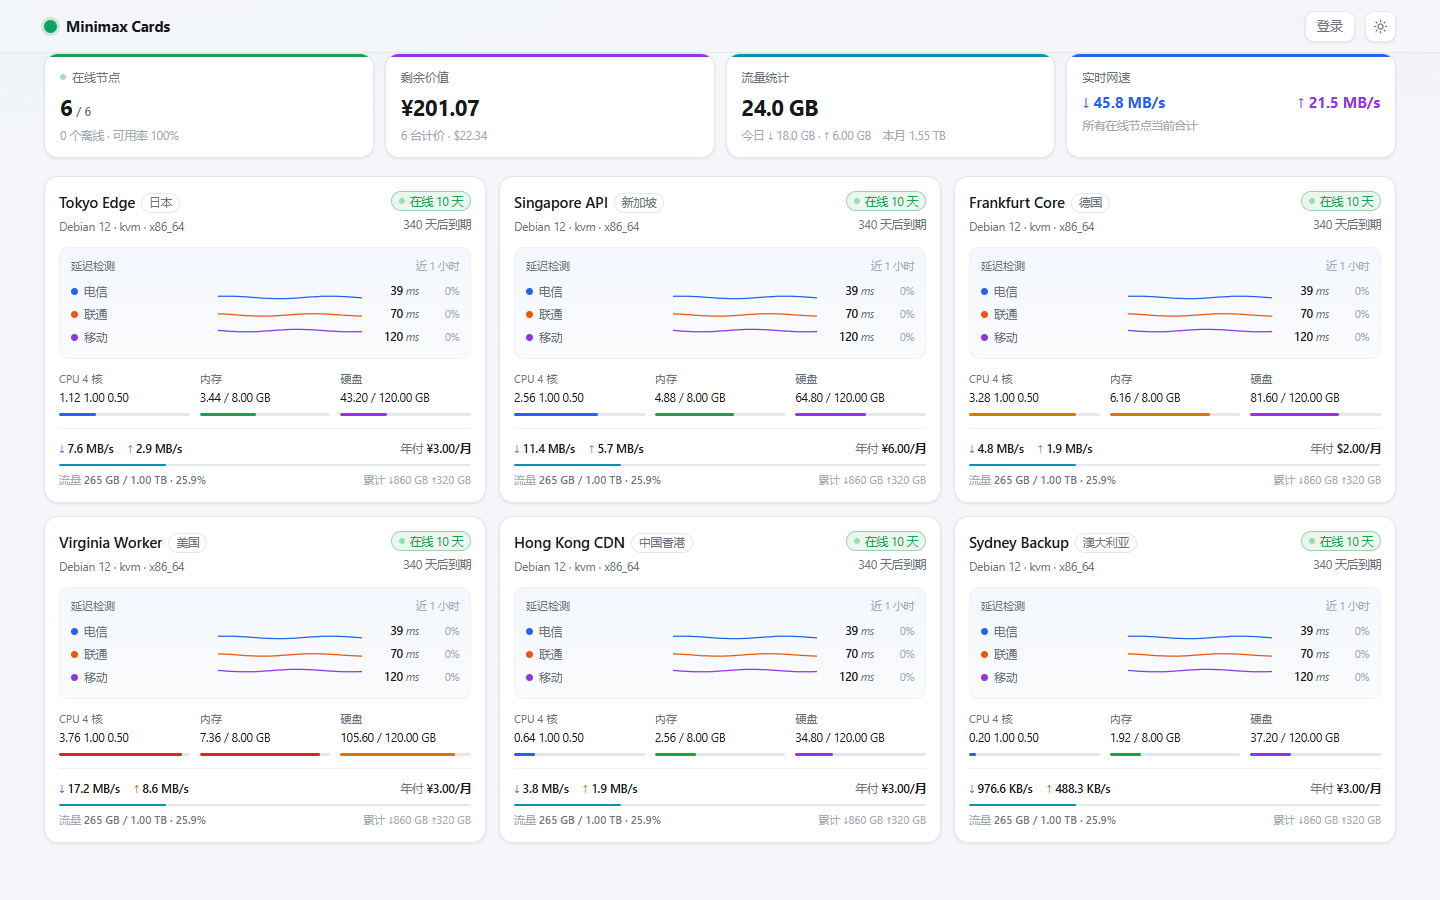
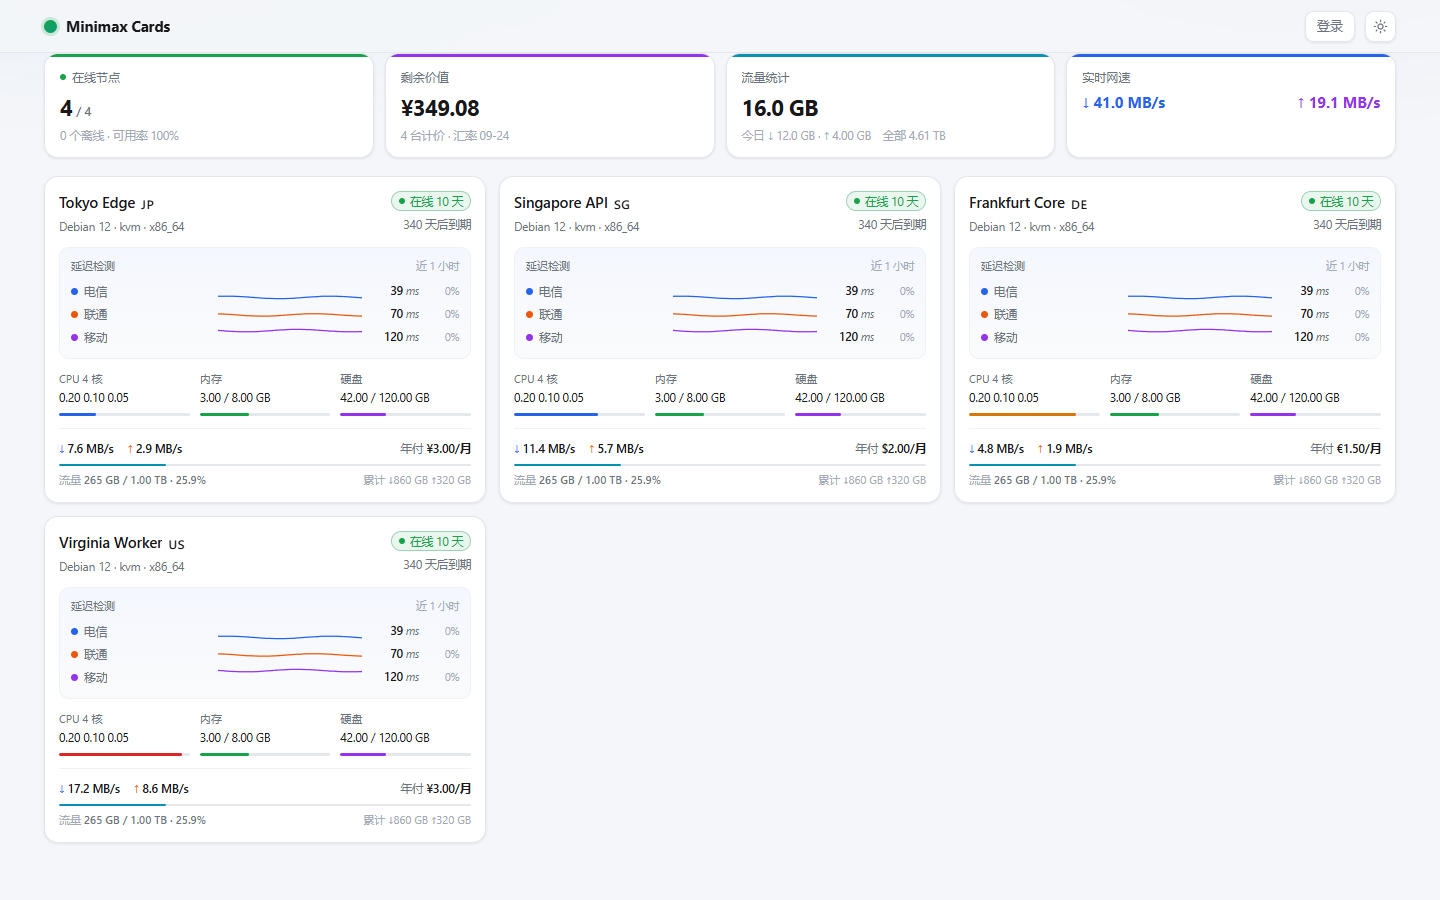
Add CNY value conversion and flag labels

diff --git a/dist/index.html b/dist/index.html
@@ -113,6 +113,7 @@ main{padding:18px 0 64px}
 .sub{margin-top:4px;font-size:11.5px;color:var(--muted);white-space:nowrap;overflow:hidden;text-overflow:ellipsis}
 
 .chip{display:inline-flex;align-items:center;gap:5px;height:20px;padding:0 7px;border:1px solid var(--line);border-radius:999px;font-size:11.5px;color:var(--muted);white-space:nowrap;font-variant-numeric:var(--tnum)}
+.flag{font-size:17px;line-height:1;flex-shrink:0;filter:saturate(.92)}
 /* 在线时给状态徽标上一层淡绿底，卡片头部因此有了色彩落点 */
 .chip.live{color:var(--ok);border-color:color-mix(in srgb,var(--ok) 34%,var(--line));background:color-mix(in srgb,var(--ok) 9%,transparent)}
 .chip.warn{border-color:color-mix(in srgb,var(--warn) 34%,var(--line));background:color-mix(in srgb,var(--warn) 9%,transparent)}
@@ -365,6 +366,11 @@ function countryName(code){
   var k = String(code).toUpperCase();
   return COUNTRY[k] || k;
 }
+function countryFlag(code){
+  var k = String(code || "").toUpperCase();
+  if (!/^[A-Z]{2}$/.test(k)) return k;
+  return String.fromCodePoint(127397 + k.charCodeAt(0), 127397 + k.charCodeAt(1));
+}
 var FOREVER = "\u221E";
 var HHMM = new Intl.DateTimeFormat("zh-CN", { hour:"2-digit", minute:"2-digit" });
 var MDHHMM = new Intl.DateTimeFormat("zh-CN", { month:"2-digit", day:"2-digit", hour:"2-digit", minute:"2-digit" });
@@ -419,9 +425,54 @@ var state = {
   me: null, meError: "",
   nodes: null, error: "", closed: false,
   ping: {},          // id -> { probes:[], at }
-  routes: {}         // 当前路由
+  routes: {},        // 当前路由
+  fx: { rates:null, date:"", at:0, error:"" }
 };
 var NODES_LOADED = false;
+
+/* ---------------- Frankfurter 汇率：统一折算成人民币 ---------------- */
+var FX_URL = "https://api.frankfurter.dev/v2/rates?base=USD";
+var FX_KEY = "minimax-cards:fx-usd";
+var FX_TTL = 12 * 60 * 60 * 1000;
+function applyFx(payload){
+  if (!payload || !payload.rates || !num(payload.rates.CNY)) return false;
+  state.fx = { rates:payload.rates, date:payload.date || "", at:payload.at || Date.now(), error:"" };
+  return true;
+}
+function loadFxRates(){
+  var cached = null;
+  try { cached = JSON.parse(localStorage.getItem(FX_KEY) || "null"); } catch (e) {}
+  if (applyFx(cached) && Date.now() - state.fx.at < FX_TTL) return Promise.resolve(state.fx);
+  return fetch(FX_URL, { headers:{ accept:"application/json" } }).then(function(res){
+    if (!res.ok) throw new Error("汇率服务不可用");
+    return res.json();
+  }).then(function(rows){
+    if (!Array.isArray(rows)) throw new Error("汇率格式错误");
+    var rates = { USD:1 }, date = "";
+    rows.forEach(function(row){
+      if (!row || typeof row.quote !== "string" || !num(row.rate) || row.rate <= 0) return;
+      rates[row.quote.toUpperCase()] = row.rate;
+      if (row.quote.toUpperCase() === "CNY") date = row.date || date;
+    });
+    var payload = { rates:rates, date:date, at:Date.now() };
+    if (!applyFx(payload)) throw new Error("缺少人民币汇率");
+    try { localStorage.setItem(FX_KEY, JSON.stringify(payload)); } catch (e) {}
+    if (route.kind === "list" && state.nodes) renderList();
+    return state.fx;
+  }).catch(function(e){
+    state.fx.error = e.message || "汇率不可用";
+    if (route.kind === "list" && state.nodes) renderList();
+    return state.fx;
+  });
+}
+function toCny(amount, currency){
+  var code = String(currency || "CNY").toUpperCase();
+  if (code === "CNY") return amount;
+  var rates = state.fx.rates;
+  if (!rates || !num(rates.CNY)) return null;
+  if (code === "USD") return amount * rates.CNY;
+  return num(rates[code]) && rates[code] > 0 ? amount / rates[code] * rates.CNY : null;
+}
 
 /* ---------------- 历史数据缓存 ---------------- */
 var cache = {};
@@ -726,7 +777,8 @@ function statusChip(n){
 }
 function countryChip(n){
   if (!n.country) return "";
-  return '<span class="chip" title="' + esc(String(n.country).toUpperCase()) + '">' + esc(countryName(n.country)) + '</span>';
+  return '<span class="flag" role="img" aria-label="' + esc(countryName(n.country)) + '" title="' +
+    esc(countryName(n.country)) + '">' + esc(countryFlag(n.country)) + '</span>';
 }
 function expiryText(n){
   var d = daysUntil(n.expires_at);
@@ -794,7 +846,7 @@ function cardLatencyBlock(n){
 }
 
 /* ---------------- 列表页 ---------------- */
-/* 剩余价值按节点自己的币种汇总，不把 USD 与 CNY 直接相加。 */
+/* 剩余价值经 Frankfurter 的 USD 基准交叉汇率统一折算为人民币。 */
 var CYCLE_DAYS = { monthly:30.4375, quarterly:91.3125, semiannual:182.625, yearly:365.25, biennial:730.5, triennial:1095.75 };
 function remainingValue(n){
   var term = CYCLE_DAYS[n.billing_cycle];
@@ -803,32 +855,35 @@ function remainingValue(n){
   return n.price * Math.min(days, term) / term;
 }
 function valueTotals(nodes){
-  var by = {}, order = [], count = 0;
+  var total = 0, count = 0, missing = 0;
   nodes.forEach(function(n){
     var value = remainingValue(n);
     if (value == null) return;
-    var currency = n.currency || "CNY";
-    if (by[currency] == null){ by[currency] = 0; order.push(currency); }
-    by[currency] += value; count++;
+    count++;
+    var cny = toCny(value, n.currency);
+    if (cny == null) missing++;
+    else total += cny;
   });
-  return { count:count, items:order.map(function(currency){ return money(by[currency], currency); }) };
+  return { total:total, count:count, missing:missing };
 }
 function summaryHTML(nodes){
   var total = nodes.length, online = 0;
-  var dayRx = 0, dayTx = 0, monthRx = 0, monthTx = 0, speedRx = 0, speedTx = 0;
+  var dayRx = 0, dayTx = 0, allRx = 0, allTx = 0, speedRx = 0, speedTx = 0;
   nodes.forEach(function(n){
     if (n.online) online++;
     dayRx += num(n.day_rx) ? n.day_rx : 0;
     dayTx += num(n.day_tx) ? n.day_tx : 0;
-    monthRx += num(n.month_rx) ? n.month_rx : 0;
-    monthTx += num(n.month_tx) ? n.month_tx : 0;
+    allRx += num(n.total_rx) ? n.total_rx : 0;
+    allTx += num(n.total_tx) ? n.total_tx : 0;
     if (n.online && n.metrics){ speedRx += n.metrics.net_rx; speedTx += n.metrics.net_tx; }
   });
   var values = valueTotals(nodes);
   var onlinePct = total ? Math.round(online/total*100) : 0;
-  var valueMain = values.items.length ? esc(values.items[0]) : "—";
+  var valueMain = values.count && !values.missing ? money(values.total, "CNY") : values.count ? "加载中…" : "—";
+  if (values.missing && state.fx.error) valueMain = "暂不可用";
   var valueSub = values.count ? values.count + " 台计价" : "未设置价格或到期日";
-  if (values.items.length > 1) valueSub += " · " + esc(values.items.slice(1).join(" + "));
+  if (values.count && state.fx.date) valueSub += " · 汇率 " + esc(state.fx.date.slice(5));
+  else if (values.missing && state.fx.error) valueSub += " · " + esc(state.fx.error);
   return '<div class="summary">' +
     '<div class="tile t-online"><div class="k"><span class="dot' + (online ? " pulse" : " off") + '"></span>在线节点</div>' +
       '<div class="v tnum">' + online + '<small>/ ' + total + '</small></div>' +
@@ -836,10 +891,9 @@ function summaryHTML(nodes){
     '<div class="tile t-value"><div class="k">剩余价值</div><div class="v tnum">' + valueMain + '</div>' +
       '<div class="s">' + valueSub + '</div></div>' +
     '<div class="tile t-flow"><div class="k">流量统计</div><div class="v tnum">' + bytes(dayRx + dayTx) + '</div>' +
-      '<div class="s">今日 ↓ ' + bytes(dayRx) + ' · ↑ ' + bytes(dayTx) + '　本月 ' + bytes(monthRx + monthTx) + '</div></div>' +
+      '<div class="s">今日 ↓ ' + bytes(dayRx) + ' · ↑ ' + bytes(dayTx) + '　全部 ' + bytes(allRx + allTx) + '</div></div>' +
     '<div class="tile t-speed"><div class="k">实时网速</div><div class="v dual tnum">' +
-      '<span class="down">↓ ' + rate(speedRx) + '</span><span class="up">↑ ' + rate(speedTx) + '</span></div>' +
-      '<div class="s">所有在线节点当前合计</div></div>' +
+      '<span class="down">↓ ' + rate(speedRx) + '</span><span class="up">↑ ' + rate(speedTx) + '</span></div></div>' +
   '</div>';
 }
 function nodeCard(n){
@@ -1391,6 +1445,7 @@ function boot(){
     if (!me.public_page && !me.authed){ location.href = "/admin/"; return; }
     shell();
     applyRoute();
+    loadFxRates();
     connect();
     // 详情页每 60 秒刷新一次图表，避免频繁重绘
     setInterval(function(){

diff --git a/src/index.html b/src/index.html
@@ -113,6 +113,7 @@ main{padding:18px 0 64px}
 .sub{margin-top:4px;font-size:11.5px;color:var(--muted);white-space:nowrap;overflow:hidden;text-overflow:ellipsis}
 
 .chip{display:inline-flex;align-items:center;gap:5px;height:20px;padding:0 7px;border:1px solid var(--line);border-radius:999px;font-size:11.5px;color:var(--muted);white-space:nowrap;font-variant-numeric:var(--tnum)}
+.flag{font-size:17px;line-height:1;flex-shrink:0;filter:saturate(.92)}
 /* 在线时给状态徽标上一层淡绿底，卡片头部因此有了色彩落点 */
 .chip.live{color:var(--ok);border-color:color-mix(in srgb,var(--ok) 34%,var(--line));background:color-mix(in srgb,var(--ok) 9%,transparent)}
 .chip.warn{border-color:color-mix(in srgb,var(--warn) 34%,var(--line));background:color-mix(in srgb,var(--warn) 9%,transparent)}
@@ -365,6 +366,11 @@ function countryName(code){
   var k = String(code).toUpperCase();
   return COUNTRY[k] || k;
 }
+function countryFlag(code){
+  var k = String(code || "").toUpperCase();
+  if (!/^[A-Z]{2}$/.test(k)) return k;
+  return String.fromCodePoint(127397 + k.charCodeAt(0), 127397 + k.charCodeAt(1));
+}
 var FOREVER = "\u221E";
 var HHMM = new Intl.DateTimeFormat("zh-CN", { hour:"2-digit", minute:"2-digit" });
 var MDHHMM = new Intl.DateTimeFormat("zh-CN", { month:"2-digit", day:"2-digit", hour:"2-digit", minute:"2-digit" });
@@ -419,9 +425,54 @@ var state = {
   me: null, meError: "",
   nodes: null, error: "", closed: false,
   ping: {},          // id -> { probes:[], at }
-  routes: {}         // 当前路由
+  routes: {},        // 当前路由
+  fx: { rates:null, date:"", at:0, error:"" }
 };
 var NODES_LOADED = false;
+
+/* ---------------- Frankfurter 汇率：统一折算成人民币 ---------------- */
+var FX_URL = "https://api.frankfurter.dev/v2/rates?base=USD";
+var FX_KEY = "minimax-cards:fx-usd";
+var FX_TTL = 12 * 60 * 60 * 1000;
+function applyFx(payload){
+  if (!payload || !payload.rates || !num(payload.rates.CNY)) return false;
+  state.fx = { rates:payload.rates, date:payload.date || "", at:payload.at || Date.now(), error:"" };
+  return true;
+}
+function loadFxRates(){
+  var cached = null;
+  try { cached = JSON.parse(localStorage.getItem(FX_KEY) || "null"); } catch (e) {}
+  if (applyFx(cached) && Date.now() - state.fx.at < FX_TTL) return Promise.resolve(state.fx);
+  return fetch(FX_URL, { headers:{ accept:"application/json" } }).then(function(res){
+    if (!res.ok) throw new Error("汇率服务不可用");
+    return res.json();
+  }).then(function(rows){
+    if (!Array.isArray(rows)) throw new Error("汇率格式错误");
+    var rates = { USD:1 }, date = "";
+    rows.forEach(function(row){
+      if (!row || typeof row.quote !== "string" || !num(row.rate) || row.rate <= 0) return;
+      rates[row.quote.toUpperCase()] = row.rate;
+      if (row.quote.toUpperCase() === "CNY") date = row.date || date;
+    });
+    var payload = { rates:rates, date:date, at:Date.now() };
+    if (!applyFx(payload)) throw new Error("缺少人民币汇率");
+    try { localStorage.setItem(FX_KEY, JSON.stringify(payload)); } catch (e) {}
+    if (route.kind === "list" && state.nodes) renderList();
+    return state.fx;
+  }).catch(function(e){
+    state.fx.error = e.message || "汇率不可用";
+    if (route.kind === "list" && state.nodes) renderList();
+    return state.fx;
+  });
+}
+function toCny(amount, currency){
+  var code = String(currency || "CNY").toUpperCase();
+  if (code === "CNY") return amount;
+  var rates = state.fx.rates;
+  if (!rates || !num(rates.CNY)) return null;
+  if (code === "USD") return amount * rates.CNY;
+  return num(rates[code]) && rates[code] > 0 ? amount / rates[code] * rates.CNY : null;
+}
 
 /* ---------------- 历史数据缓存 ---------------- */
 var cache = {};
@@ -726,7 +777,8 @@ function statusChip(n){
 }
 function countryChip(n){
   if (!n.country) return "";
-  return '<span class="chip" title="' + esc(String(n.country).toUpperCase()) + '">' + esc(countryName(n.country)) + '</span>';
+  return '<span class="flag" role="img" aria-label="' + esc(countryName(n.country)) + '" title="' +
+    esc(countryName(n.country)) + '">' + esc(countryFlag(n.country)) + '</span>';
 }
 function expiryText(n){
   var d = daysUntil(n.expires_at);
@@ -794,7 +846,7 @@ function cardLatencyBlock(n){
 }
 
 /* ---------------- 列表页 ---------------- */
-/* 剩余价值按节点自己的币种汇总，不把 USD 与 CNY 直接相加。 */
+/* 剩余价值经 Frankfurter 的 USD 基准交叉汇率统一折算为人民币。 */
 var CYCLE_DAYS = { monthly:30.4375, quarterly:91.3125, semiannual:182.625, yearly:365.25, biennial:730.5, triennial:1095.75 };
 function remainingValue(n){
   var term = CYCLE_DAYS[n.billing_cycle];
@@ -803,32 +855,35 @@ function remainingValue(n){
   return n.price * Math.min(days, term) / term;
 }
 function valueTotals(nodes){
-  var by = {}, order = [], count = 0;
+  var total = 0, count = 0, missing = 0;
   nodes.forEach(function(n){
     var value = remainingValue(n);
     if (value == null) return;
-    var currency = n.currency || "CNY";
-    if (by[currency] == null){ by[currency] = 0; order.push(currency); }
-    by[currency] += value; count++;
+    count++;
+    var cny = toCny(value, n.currency);
+    if (cny == null) missing++;
+    else total += cny;
   });
-  return { count:count, items:order.map(function(currency){ return money(by[currency], currency); }) };
+  return { total:total, count:count, missing:missing };
 }
 function summaryHTML(nodes){
   var total = nodes.length, online = 0;
-  var dayRx = 0, dayTx = 0, monthRx = 0, monthTx = 0, speedRx = 0, speedTx = 0;
+  var dayRx = 0, dayTx = 0, allRx = 0, allTx = 0, speedRx = 0, speedTx = 0;
   nodes.forEach(function(n){
     if (n.online) online++;
     dayRx += num(n.day_rx) ? n.day_rx : 0;
     dayTx += num(n.day_tx) ? n.day_tx : 0;
-    monthRx += num(n.month_rx) ? n.month_rx : 0;
-    monthTx += num(n.month_tx) ? n.month_tx : 0;
+    allRx += num(n.total_rx) ? n.total_rx : 0;
+    allTx += num(n.total_tx) ? n.total_tx : 0;
     if (n.online && n.metrics){ speedRx += n.metrics.net_rx; speedTx += n.metrics.net_tx; }
   });
   var values = valueTotals(nodes);
   var onlinePct = total ? Math.round(online/total*100) : 0;
-  var valueMain = values.items.length ? esc(values.items[0]) : "—";
+  var valueMain = values.count && !values.missing ? money(values.total, "CNY") : values.count ? "加载中…" : "—";
+  if (values.missing && state.fx.error) valueMain = "暂不可用";
   var valueSub = values.count ? values.count + " 台计价" : "未设置价格或到期日";
-  if (values.items.length > 1) valueSub += " · " + esc(values.items.slice(1).join(" + "));
+  if (values.count && state.fx.date) valueSub += " · 汇率 " + esc(state.fx.date.slice(5));
+  else if (values.missing && state.fx.error) valueSub += " · " + esc(state.fx.error);
   return '<div class="summary">' +
     '<div class="tile t-online"><div class="k"><span class="dot' + (online ? " pulse" : " off") + '"></span>在线节点</div>' +
       '<div class="v tnum">' + online + '<small>/ ' + total + '</small></div>' +
@@ -836,10 +891,9 @@ function summaryHTML(nodes){
     '<div class="tile t-value"><div class="k">剩余价值</div><div class="v tnum">' + valueMain + '</div>' +
       '<div class="s">' + valueSub + '</div></div>' +
     '<div class="tile t-flow"><div class="k">流量统计</div><div class="v tnum">' + bytes(dayRx + dayTx) + '</div>' +
-      '<div class="s">今日 ↓ ' + bytes(dayRx) + ' · ↑ ' + bytes(dayTx) + '　本月 ' + bytes(monthRx + monthTx) + '</div></div>' +
+      '<div class="s">今日 ↓ ' + bytes(dayRx) + ' · ↑ ' + bytes(dayTx) + '　全部 ' + bytes(allRx + allTx) + '</div></div>' +
     '<div class="tile t-speed"><div class="k">实时网速</div><div class="v dual tnum">' +
-      '<span class="down">↓ ' + rate(speedRx) + '</span><span class="up">↑ ' + rate(speedTx) + '</span></div>' +
-      '<div class="s">所有在线节点当前合计</div></div>' +
+      '<span class="down">↓ ' + rate(speedRx) + '</span><span class="up">↑ ' + rate(speedTx) + '</span></div></div>' +
   '</div>';
 }
 function nodeCard(n){
@@ -1391,6 +1445,7 @@ function boot(){
     if (!me.public_page && !me.authed){ location.href = "/admin/"; return; }
     shell();
     applyRoute();
+    loadFxRates();
     connect();
     // 详情页每 60 秒刷新一次图表，避免频繁重绘
     setInterval(function(){

diff --git a/README.md b/README.md
@@ -4,11 +4,13 @@
 
 ## 改动
 
-- 首页移除地图/延迟汇总区域，使用四张紧凑卡片显示在线节点、剩余价值、流量统计和实时网速。
+- 首页移除地图/延迟汇总区域，使用四张紧凑卡片显示在线节点、人民币剩余价值、今日与全部流量、实时网速。
 - 节点卡片保留近一小时多路延迟，但将首页请求点数从 60 降至 36。
 - 延迟请求最多三路并发，并增加请求去重、12 秒超时、失败后快速重试和页面恢复时刷新。
 - 延迟数据到达后只更新对应节点的延迟区域，不再重绘整个节点列表。
 - 缓存生成的迷你曲线，实时指标每两秒更新时无需重复计算 SVG。
+- 剩余价值通过 Frankfurter 汇率接口统一换算为人民币，汇率在浏览器缓存 12 小时。
+- 节点国家使用 ISO 国家代码生成 Emoji 国旗。
 
 ## 开发
 
